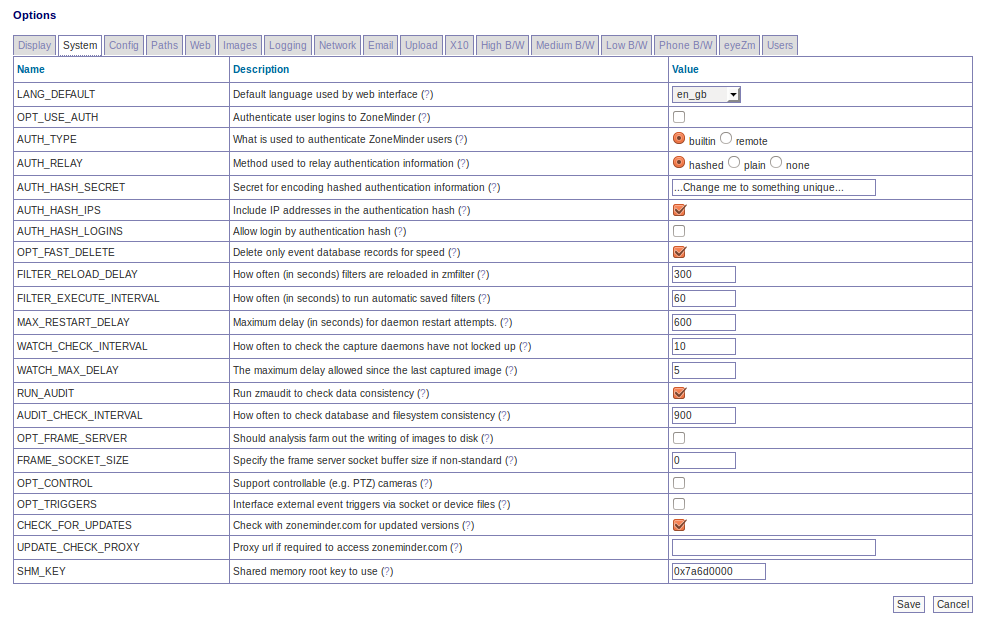
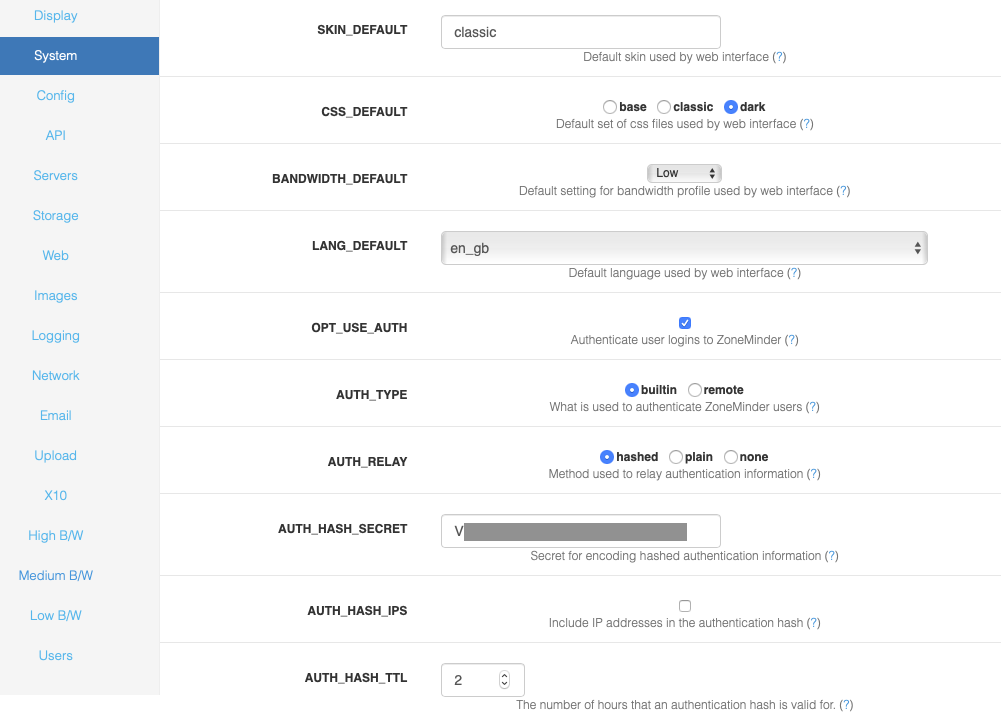
fixup options->systems

diff --git a/docs/userguide/options/options_system.rst b/docs/userguide/options/options_system.rst
@@ -3,6 +3,10 @@ Options - System
 
 .. image:: images/Options_System.png
 
+SKIN_DEFAULT - ZoneMinder allows the use of many different web interfaces. This option allows you to set the default skin used by the website. Users can change their skin later, this merely sets the default.
+
+CSS_DEFAULT - ZoneMinder allows the use of many different web interfaces, and some skins allow the use of different set of CSS files to control the appearance. This option allows you to set the default set of css files used by the website. Users can change their css later, this merely sets the default.
+
 LANG_DEFAULT - ZoneMinder allows the web interface to use languages other than English if the appropriate language file has been created and is present. This option allows you to change the default language that is used from the shipped language, British English, to another language.
 
 OPT_USE_AUTH - ZoneMinder can run in two modes. The simplest is an entirely unauthenticated mode where anyone can access ZoneMinder and perform all tasks. This is most suitable for installations where the web server access is limited in other ways. The other mode enables user accounts with varying sets of permissions. Users must login or authenticate to access ZoneMinder and are limited by their defined permissions. Authenticated mode alone should not be relied up for securing Internet connected ZoneMinder.
@@ -11,11 +15,33 @@ AUTH_TYPE - ZoneMinder can use two methods to authenticate users when running in
 
 AUTH_RELAY - When ZoneMinder is running in authenticated mode it can pass user details between the web pages and the back end processes. There are two methods for doing this. This first is to use a time limited hashed string which contains no direct username or password details, the second method is to pass the username and passwords around in plaintext. This method is not recommend except where you do not have the md5 libraries available on your system or you have a completely isolated system with no external access. You can also switch off authentication relaying if your system is isolated in other ways.
 
-AUTH_HASH_SECRET - When ZoneMinder is running in hashed authenticated mode it is necessary to generate hashed strings containing encrypted sensitive information such as usernames and password. Although these string are reasonably secure the addition of a random secret increases security substantially.
+AUTH_HASH_SECRET - When ZoneMinder is running in hashed authenticated mode it is necessary to generate hashed strings containing encrypted sensitive information such as usernames and password. Although these string are reasonably secure the addition of a random secret increases security substantially. Note that if you are using the new token based APIs, then this field is mandatory with ZM 1.34 and above 
 
-AUTH_HASH_IPS - When ZoneMinder is running in hashed authenticated mode it can optionally include the requesting IP address in the resultant hash. This adds an extra level of security as only requests from that address may use that authentication key. However in some circumstances, such as access over mobile networks, the requesting address can change for each request which will cause most requests to fail. This option allows you to control whether IP addresses are included in the authentication hash on your system. If you experience intermitent problems with authentication, switching this option off may help.
+AUTH_HASH_IPS - When ZoneMinder is running in hashed authenticated mode it can optionally include the requesting IP address in the resultant hash. This adds an extra level of security as only requests from that address may use that authentication key. However in some circumstances, such as access over mobile networks, the requesting address can change for each request which will cause most requests to fail. This option allows you to control whether IP addresses are included in the authentication hash on your system. If you experience intermitent problems with authentication, switching this option off may help. It is recommended you keep this off if you use mobile apps like zmNinja over mobile carrier networks - several APNs change the IP very frequently which may result in authentication failure.
+
+AUTH_HASH_TTL - Time before ZM auth will expire (does not apply to API tokens). The default has traditionally been 2 hours. A new hash will automatically be regenerated at half this value.
 
 AUTH_HASH_LOGINS - The normal process for logging into ZoneMinder is via the login screen with username and password. In some circumstances it may be desirable to allow access directly to one or more pages, for instance from a third party application. If this option is enabled then adding an 'auth' parameter to any request will include a shortcut login bypassing the login screen, if not already logged in. As authentication hashes are time and, optionally, IP limited, this can allow short-term access to ZoneMinder screens from other web pages etc. In order to use this, the calling application will have to generate the authentication hash itself and ensure it is valid. If you use this option you should ensure that you have modified the ZM_AUTH_HASH_SECRET to something unique to your system.
+
+ENABLE_CSRF_MAGIC - CSRF stands for Cross-Site Request Forgery which, under specific circumstances, can allow an attacker to perform any task your ZoneMinder user account has permission to perform. To accomplish this, the attacker must write a very specific web page and get you to navigate to it, while you are logged into the ZoneMinder web console at the same time. Enabling ZM_ENABLE_CSRF_MAGIC will help mitigate these kinds of attacks. If you are using zmNinja and face access issues, you might try turning this off.
+
+OPT_USE_API - A global setting to enable/disable ZoneMinder APIs. If you are using mobile apps like zmNinja, this needs to be enabled
+
+.. note:: If you are using zmNinja along with authentication, please make sure ``AUTH_HASH_LOGINS`` is enabled, ``OPT_USE_API`` is elabled, ``AUTH_RELAY`` is set to hashed, ``AUTH_HASH_IPS`` is off and a valid ``AUTH_HASHED_SECRET`` is specified.
+
+OPT_USE_LEGACY_AUTH - Starting version 1.34.0, ZoneMinder uses a more secure Authentication mechanism using JWT tokens. Older versions used a less secure MD5 based auth hash. It is recommended you turn this off after you are sure you don't need it. If you are using a 3rd party app that relies on the older API auth mechanisms, you will have to update that app if you turn this off. Note that zmNinja 1.3.057 onwards supports the new token system.
+
+OPT_USE_EVENT_NOTIFICATION - zmeventnotification is a 3rd party event notification server that is used to get notifications for alarms detected by ZoneMinder in real time. zmNinja requires this server for push notifications to mobile phones. This option only enables the server if its already installed. Please visit the `zmeventserver project site <https://github.com/pliablepixels/zmeventserver>`__ for installation instructions.
+
+OPT_USE_GOOG_RECAPTCHA - This option allows you to include a google reCaptcha validation at login. This means in addition to providing a valid usernane and password, you will also have to pass the reCaptcha test. Please note that enabling this option results in the zoneminder login page reach out to google servers for captcha validation. Also please note that enabling this option may break 3rd party clients if they rely on web based logins (Note that zmNinja now uses the API based token method and will not be affected if reCAPTCHA is enabled). If you enable this, you also need to specify your site and secret key (please refer to context help in the ZoneMinder system screen)
+
+SYSTEM_SHUTDOWN - this option decides if it is allowed to shutdown the full system via the ZM UI. The system will need to have sudo installed and the following added to /etc/sudoers:
+
+:: 
+  
+  www-data ALL=NOPASSWD: /sbin/shutdown
+
+to perform the shutdown or reboot
 
 OPT_FAST_DELETE - Normally an event created as the result of an alarm consists of entries in one or more database tables plus the various files associated with it. When deleting events in the browser it can take a long time to remove all of this if your are trying to do a lot of events at once. It is recommended that you set this option which means that the browser client only deletes the key entries in the events table, which means the events will no longer appear in the listing, and leaves the zmaudit daemon to clear up the rest later.
 
@@ -25,13 +51,17 @@ FILTER_EXECUTE_INTERVAL - ZoneMinder allows you to save filters to the database 
 
 MAX_RESTART_DELAY - The zmdc (zm daemon control) process controls when processeses are started or stopped and will attempt to restart any that fail. If a daemon fails frequently then a delay is introduced between each restart attempt. If the daemon stills fails then this delay is increased to prevent extra load being placed on the system by continual restarts. This option controls what this maximum delay is.
 
+STATUS_UPDATE_INTERVAL - The zmstats daemon performs various db queries related to collecting system statistics that may take a long time in the background. This option decides how often this update is scheduled.
+
 WATCH_CHECK_INTERVAL - The zmwatch daemon checks the image capture performance of the capture daemons to ensure that they have not locked up (rarely a sync error may occur which blocks indefinitely). This option determines how often the daemons are checked.
 
 WATCH_MAX_DELAY - The zmwatch daemon checks the image capture performance of the capture daemons to ensure that they have not locked up (rarely a sync error may occur which blocks indefinitely). This option determines the maximum delay to allow since the last captured frame. The daemon will be restarted if it has not captured any images after this period though the actual restart may take slightly longer in conjunction with the check interval value above.
 
-RUN_AUDIT - The zmaudit daemon exists to check that the saved information in the database and on the filesystem match and are consistent with each other. If an error occurs or if you are using 'fast deletes' it may be that database records are deleted but files remain. In this case, and similar, zmaudit will remove redundant information to synchronise the two data stores. This option controls whether zmaudit is run in the background and performs these checks and fixes continuously. This is recommended for most systems however if you have a very large number of events the process of scanning the database and filesystem may take a long time and impact performance. In this case you may prefer to not have zmaudit running unconditionally and schedule occasional checks at other, more convenient, times.
+RUN_AUDIT - The zmaudit daemon exists to check that the saved information in the database and on the filesystem match and are consistent with each other. If an error occurs or if you are using 'fast deletes' it may be that database records are deleted but files remain. In this case, and similar, zmaudit will remove redundant information to synchronise the two data stores. This option controls whether zmaudit is run in the background and performs these checks and fixes continuously. It is recommended you keep this **OFF** in most systems.
 
 AUDIT_CHECK_INTERVAL - The zmaudit daemon exists to check that the saved information in the database and on the filesystem match and are consistent with each other. If an error occurs or if you are using 'fast deletes' it may be that database records are deleted but files remain. In this case, and similar, zmaudit will remove redundant information to synchronise the two data stores. The default check interval of 900 seconds (15 minutes) is fine for most systems however if you have a very large number of events the process of scanning the database and filesystem may take a long time and impact performance. In this case you may prefer to make this interval much larger to reduce the impact on your system. This option determines how often these checks are performed.
+
+AUDIT_MIN_AGE - The zmaudit daemon exists to check that the saved information in the database and on the filesystem match and are consistent with each other. Event files or db records that are younger than this setting will not be deleted and a warning will be given
 
 OPT_CONTROL - ZoneMinder includes limited support for controllable cameras. A number of sample protocols are included and others can easily be added. If you wish to control your cameras via ZoneMinder then select this option otherwise if you only have static cameras or use other control methods then leave this option off.
 
@@ -39,7 +69,11 @@ OPT_TRIGGERS - ZoneMinder can interact with external systems which prompt or can
 
 CHECK_FOR_UPDATES - From ZoneMinder version 1.17.0 onwards new versions are expected to be more frequent. To save checking manually for each new version ZoneMinder can check with the zoneminder.com website to determine the most recent release. These checks are infrequent, about once per week, and no personal or system information is transmitted other than your current version number. If you do not wish these checks to take place or your ZoneMinder system has no internet access you can switch these check off with this configuration variable
 
+TELEMETRY_DATA - Enable collection of usage information of the local system and send it to the ZoneMinder development team. This data will be used to determine things like who and where our customers are, how big their systems are, the underlying hardware and operating system, etc. This is being done for the sole purpose of creating a better product for our target audience. This script is intended to be completely transparent to the end user, and can be disabled from the web console under Options. For more details on what information we collect, please refer to Zoneminder's privacy statement (available in the contextual help of TELEMETRY_DATA on your installation).
+
 UPDATE_CHECK_PROXY - If you use a proxy to access the internet then ZoneMinder needs to know so it can access zoneminder.com to check for updates. If you do use a proxy enter the full proxy url here in the form of ``http://<proxy host>:<proxy port>/``
 
 SHM_KEY - ZoneMinder uses shared memory to speed up communication between modules. To identify the right area to use shared memory keys are used. This option controls what the base key is, each monitor will have it's Id or'ed with this to get the actual key used. You will not normally need to change this value unless it clashes with another instance of ZoneMinder on the same machine. Only the first four hex digits are used, the lower four will be masked out and ignored.
+
+COOKIE_LIFETIME - This will affect how long a session will be valid for since the last request. Keeping this short helps prevent session hijacking. Keeping it long allows you to stay logged in longer without refreshing the view. We recommend you keep this to the default of ``3600`` if you are not sure.
 
